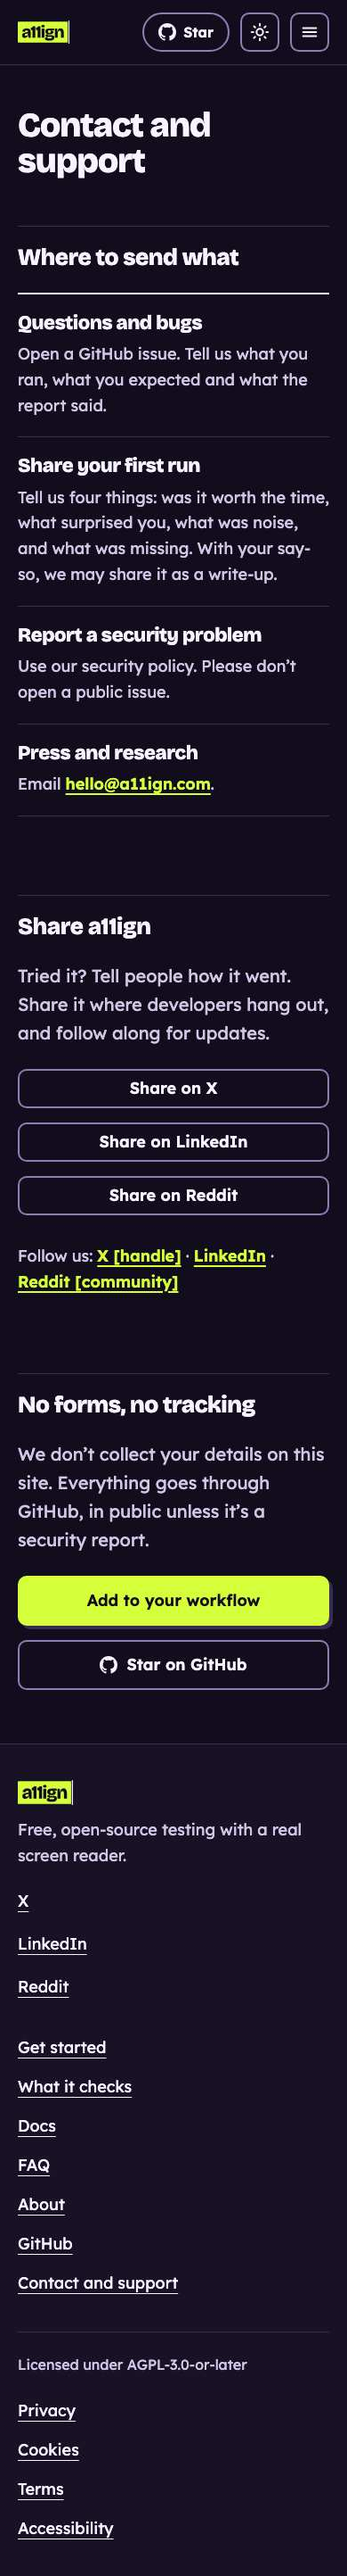
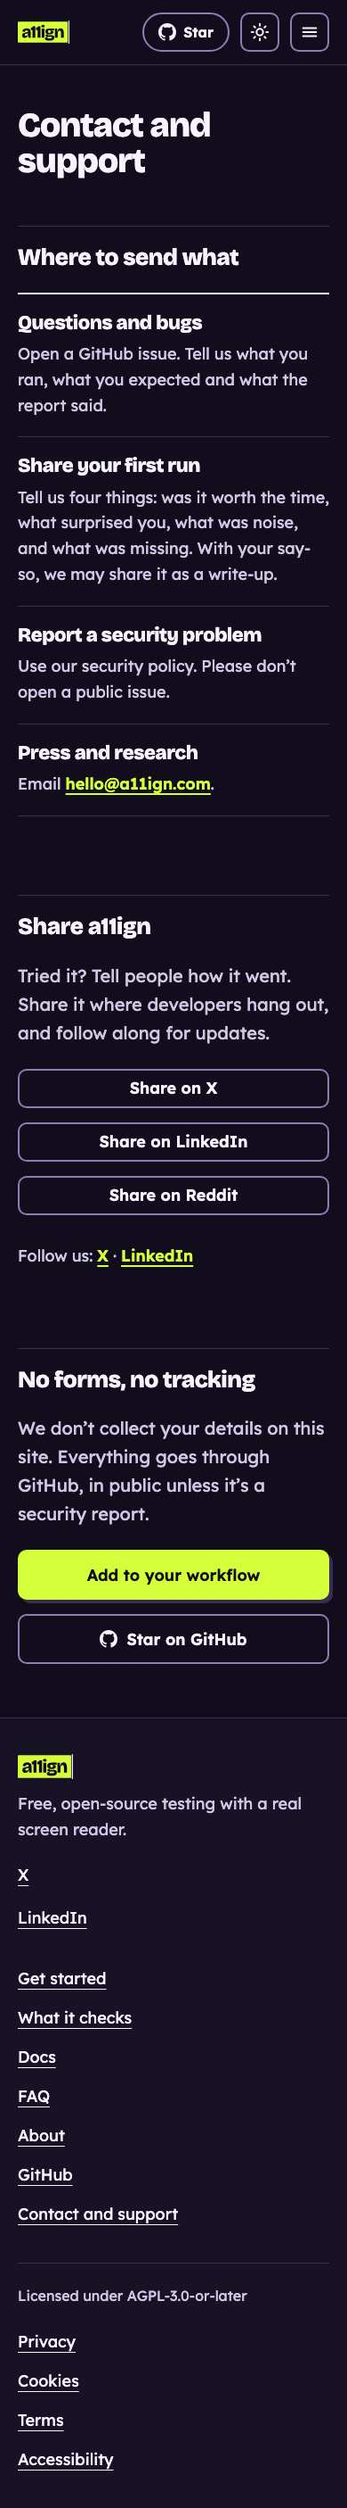
fix(a11ign.github.io): remove the Reddit follow links and link X to x.com/a11ign

diff --git a/tests/design.spec.ts b/tests/design.spec.ts
@@ -191,15 +191,16 @@ test.describe('Home steps', () => {
 });
 
 test.describe('Footer and follow links', () => {
-	test('the footer lists X, LinkedIn and Reddit, LinkedIn goes to the company page, and there is no YouTube', async ({ page }) => {
+	test('the footer lists X and LinkedIn, both go to the a11ign pages, and there is no Reddit or YouTube', async ({ page }) => {
 		await page.goto('/');
 		const links = page.getByRole('contentinfo').getByRole('list', { name: 'Follow us' }).getByRole('link');
-		await expect(links).toHaveText(['X', 'LinkedIn (opens in a new tab)', 'Reddit']);
+		await expect(links).toHaveText(['X (opens in a new tab)', 'LinkedIn (opens in a new tab)']);
+		await expect(links.nth(0)).toHaveAttribute('href', 'https://x.com/a11ign');
 		await expect(links.nth(1)).toHaveAttribute('href', 'https://www.linkedin.com/company/a11ign');
-		await expect(page.getByRole('contentinfo').getByText('YouTube')).toHaveCount(0);
+		await expect(page.getByRole('contentinfo').getByText(/Reddit|YouTube/)).toHaveCount(0);
 	});
 
-	test('the gap between the X and LinkedIn text is no wider than the LinkedIn and Reddit one, plus a few pixels', async ({ page }) => {
+	test('the gap between the X and LinkedIn text is small', async ({ page }) => {
 		await page.setViewportSize({ width: 1440, height: 900 });
 		await page.goto('/');
 		const gaps = await page.$$eval('.sf .soc .fl', (links) => {
@@ -210,13 +211,16 @@ test.describe('Footer and follow links', () => {
 			});
 			return rects.slice(1).map((rect, i) => rect.left - rects[i].right);
 		});
+		expect(gaps).toHaveLength(1);
 		expect(gaps[0]).toBeLessThan(30);
-		expect(gaps[0] - gaps[1]).toBeLessThan(8);
 	});
 
-	test('Contact follows the footer: no YouTube, and the LinkedIn link is the company page without a placeholder', async ({ page }) => {
+	test('Contact follows the footer: X and LinkedIn link to the a11ign pages with no placeholder, and there is no Reddit or YouTube follow link', async ({ page }) => {
 		await page.goto('/contact');
 		await expect(page.getByText('YouTube')).toHaveCount(0);
+		const follow = page.locator('p', { hasText: 'Follow us:' });
+		await expect(follow.getByRole('link')).toHaveText(['X (opens in a new tab)', 'LinkedIn (opens in a new tab)']);
+		await expect(follow.getByRole('link').first()).toHaveAttribute('href', 'https://x.com/a11ign');
 		const linkedin = page.locator('p', { hasText: 'Follow us:' }).getByRole('link', { name: 'LinkedIn (opens in a new tab)', exact: true });
 		await expect(linkedin).toHaveAttribute('href', 'https://www.linkedin.com/company/a11ign');
 	});

diff --git a/tests/behaviour.spec.ts b/tests/behaviour.spec.ts
@@ -322,14 +322,12 @@ test.describe('content the design marks as unfinished ships as designed', () => 
 
 	test('placeholders stay visible', async ({ page }) => {
 		await page.goto('/contact');
-		for (const text of ['X [handle]', 'Reddit [community]']) {
-			await expect(page.getByRole('link', { name: text })).toHaveAttribute('href', '#');
-		}
+		// The social links are all supplied now, so the only placeholders left on Contact are none: X and LinkedIn are live.
+		await expect(page.getByText(/\[(handle|page|community|channel)\]/)).toHaveCount(0);
 		await page.goto('/resources');
 		await expect(page.getByText('[Placeholder: two sentences on what this guide covers and who it’s for.]')).toBeVisible();
 		await expect(page.getByText('[Author] · [Date] · [Read time]')).toBeVisible();
 		await page.goto('/');
-		await expect(page.getByRole('contentinfo').getByRole('link', { name: 'Reddit' })).toHaveAttribute('href', '#');
 	});
 
 	test('the 404 page follows the design', async ({ page }) => {

diff --git a/src/lib/site.ts b/src/lib/site.ts
@@ -2,6 +2,7 @@ import seoReadme from '../data/seo/README.md?raw';
 
 export const SITE_URL = 'https://www.a11ign.com';
 export const GITHUB_URL = 'https://github.com/a11ign/a11ign';
+export const X_URL = 'https://x.com/a11ign';
 export const LINKEDIN_URL = 'https://www.linkedin.com/company/a11ign';
 export const SHARE_IMAGE = `${SITE_URL}/a11ign-share-card.png`;
 export const SHARE_IMAGE_ALT = 'a11ign: test accessibility the way a screen reader user hears it';
